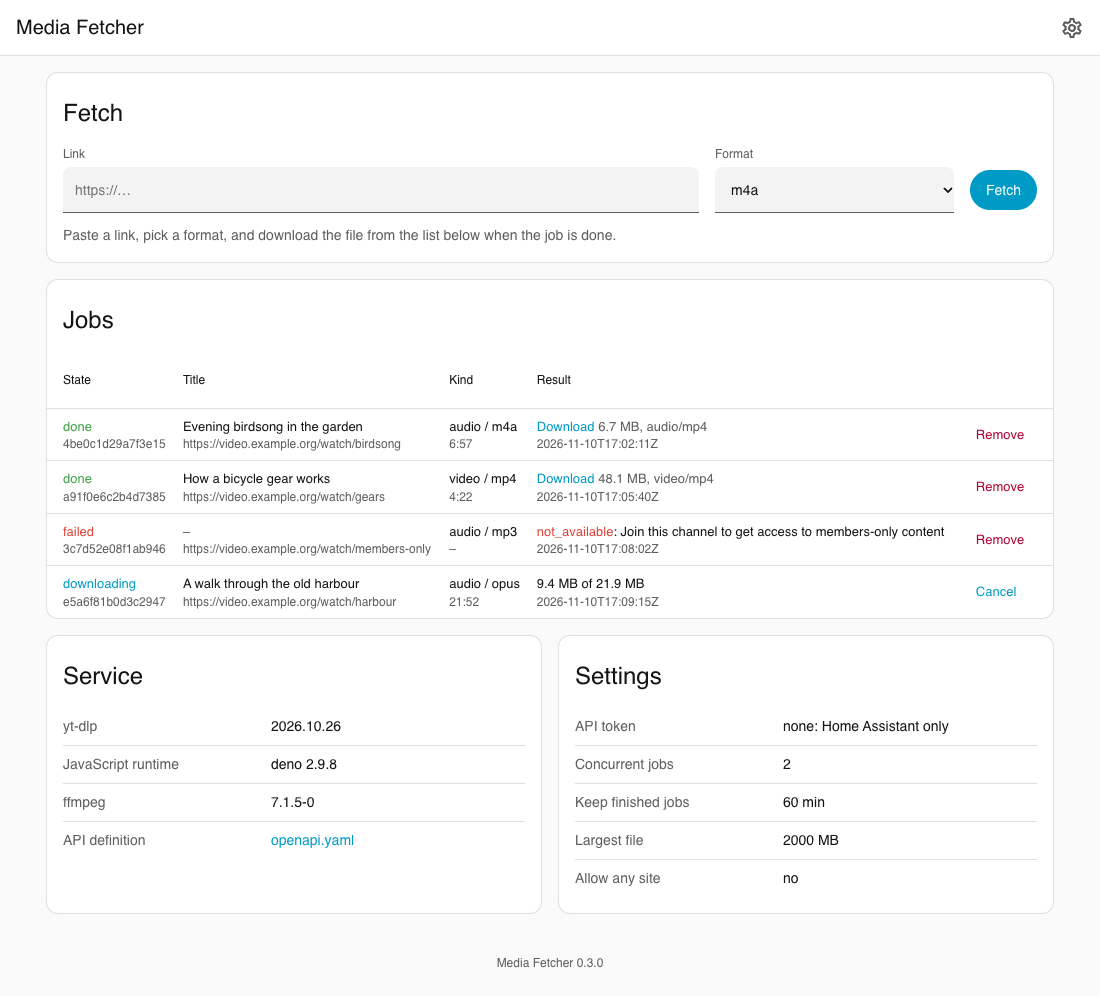
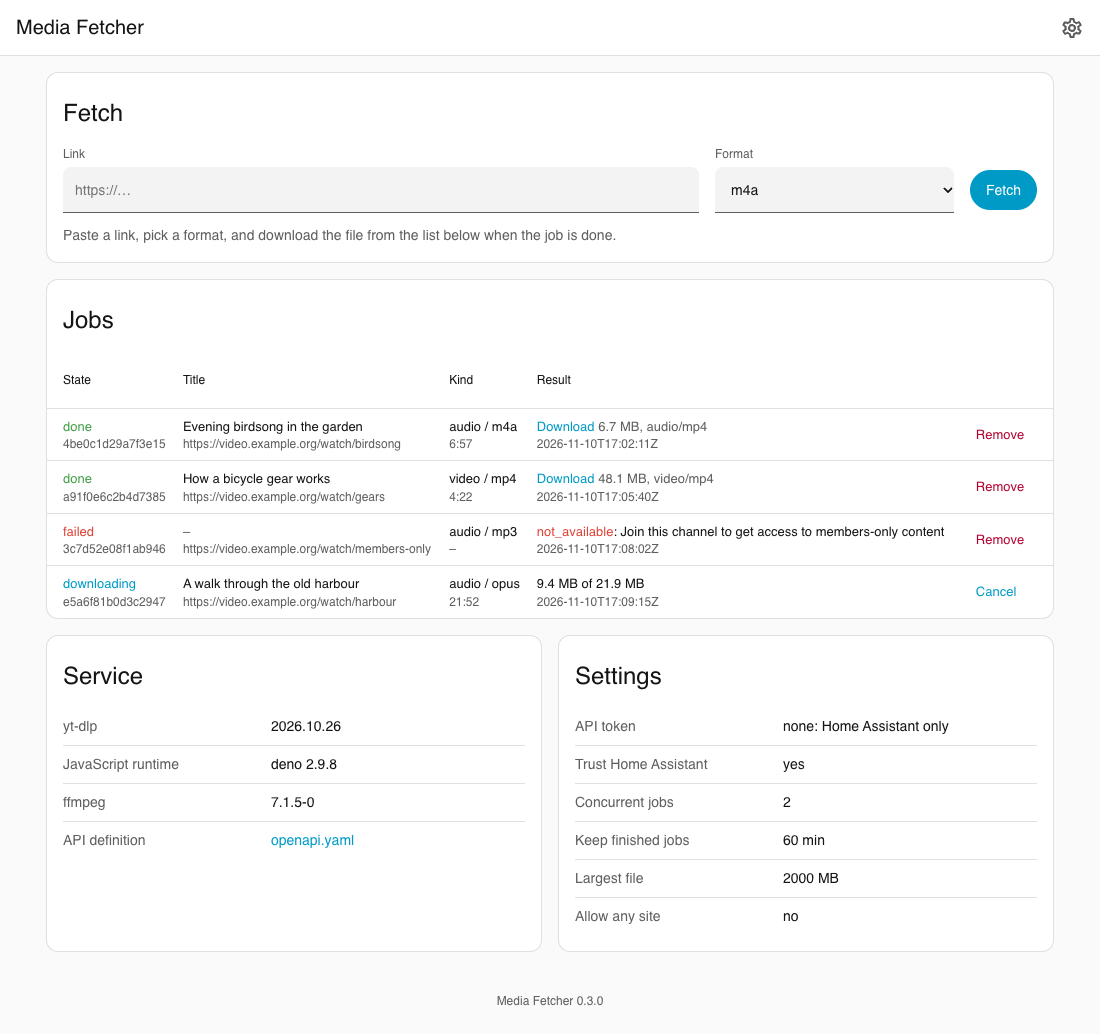
Add option trust_home_assistant
Off, Home Assistant Core needs the API token like every other client,
and without a token nobody gets into the API. Default on, as before.
Docs, translations, OpenAPI, page row and tests; the failed-download
test waits for the job's thread to remove its folder.

diff --git a/media_fetcher/rootfs/usr/lib/media_fetcher/api.py b/media_fetcher/rootfs/usr/lib/media_fetcher/api.py
@@ -2,8 +2,9 @@
 
 Every endpoint but health and the OpenAPI definition needs "Authorization:
 Bearer <token>", unless the request comes from Home Assistant Core, which the
-app knows by its address in the app network; without a token in the options
-nobody else gets in. Errors are JSON: {"error": {"code": "...", "message": "..."}}.
+app knows by its address in the app network, and the option
+trust_home_assistant is on; without a token in the options nobody else gets
+in. Errors are JSON: {"error": {"code": "...", "message": "..."}}.
 
 The page at / is HTML for Home Assistant's ingress and answers only the
 ingress proxy, so only administrators see it. It shows versions, settings
@@ -68,7 +69,7 @@ class Context:
     versions: dict                       # yt_dlp, js_runtime, ffmpeg
     version: str                         # the app's
     page_peers: frozenset[str]           # who may see the status page: the ingress proxy
-    core_peers: frozenset[str]           # who needs no token: Home Assistant Core
+    core_peers: frozenset[str]           # who needs no token: Home Assistant Core, or nobody
     slug: str | None = None              # for the link to the app's settings
     settings: dict = field(default_factory=dict)
     probes: int = 0                      # info requests running now; at most max_jobs
@@ -111,7 +112,8 @@ async def auth(request: web.Request, handler) -> web.StreamResponse:
         ctx: Context = request.app["ctx"]
         if request.remote not in ctx.core_peers and not bearer_ok(request, ctx.token):
             message = ("a valid bearer token is required" if ctx.token
-                       else "no token is set: only Home Assistant may call the API")
+                       else "no token is set: only Home Assistant may call the API" if ctx.core_peers
+                       else "no token is set and Home Assistant is not trusted: nobody may call the API")
             return error(401, "unauthorized", message, **{"WWW-Authenticate": "Bearer"})
     return await handler(request)
 
@@ -498,8 +500,10 @@ def render(ctx: Context, jobs: list[dict], base: str = "", nonce: str = "") -> s
     ])
     s = ctx.settings
     settings = _kv([
-        ("API token", "from the options, for clients other than Home Assistant" if s.get("token_set")
-         else "none: Home Assistant only"),
+        ("API token", ("from the options, for clients other than Home Assistant" if s.get("trust_home_assistant", True)
+                       else "from the options, for every client") if s.get("token_set")
+         else "none: Home Assistant only" if s.get("trust_home_assistant", True) else "none: nobody gets in"),
+        ("Trust Home Assistant", "yes" if s.get("trust_home_assistant", True) else "no"),
         ("Concurrent jobs", esc(str(s.get("max_jobs", "–")))),
         ("Keep finished jobs", f"{esc(str(s.get('keep_minutes', '–')))} min"),
         ("Largest file", f"{esc(str(s.get('max_size_mb', '–')))} MB"),

diff --git a/media_fetcher/rootfs/usr/lib/media_fetcher/__main__.py b/media_fetcher/rootfs/usr/lib/media_fetcher/__main__.py
@@ -14,7 +14,7 @@ from pathlib import Path
 from aiohttp import web
 
 from . import config as cfg_module
-from .api import PORT, create_app
+from .api import CORE_PEER, PORT, create_app
 from .fetcher import MB, Fetcher, versions
 from .jobs import JobManager
 
@@ -41,17 +41,32 @@ async def expire_loop(manager: JobManager) -> None:
             LOGGER.exception("Expiring jobs failed")
 
 
+def trusted_peers(cfg: cfg_module.Config) -> frozenset[str]:
+    """The addresses that need no token: Home Assistant Core's, unless the
+    option trust_home_assistant is off."""
+    return frozenset({CORE_PEER}) if cfg.trust_home_assistant else frozenset()
+
+
+def access_line(cfg: cfg_module.Config) -> str:
+    """Who gets into the API, for the log at the start."""
+    if cfg.trust_home_assistant:
+        return ("Home Assistant needs no token, other clients take the token from the options" if cfg.token
+                else "Home Assistant needs no token, other clients are not let in (no token set)")
+    return ("every client, Home Assistant included, takes the token from the options" if cfg.token
+            else "nobody is let in: Home Assistant is not trusted and no token is set")
+
+
 async def serve(cfg: cfg_module.Config, manager: JobManager, found: dict, version: str) -> None:
     host = hostname()
     app = create_app(manager, cfg.token, found, version, slug=host.replace("-", "_"),
-                     settings={"max_jobs": cfg.max_jobs, "keep_minutes": cfg.keep_minutes,
+                     core_peers=trusted_peers(cfg),
+                     settings={"trust_home_assistant": cfg.trust_home_assistant, "max_jobs": cfg.max_jobs, "keep_minutes": cfg.keep_minutes,
                                "max_size_mb": cfg.max_size_mb, "allow_any_site": cfg.allow_any_site,
                                "token_set": bool(cfg.token)})
     runner = web.AppRunner(app, access_log=None)
     await runner.setup()
     await web.TCPSite(runner, "0.0.0.0", PORT).start()
-    LOGGER.info("API on port %d: Home Assistant needs no token, other clients %s", PORT,
-                "take the token from the options" if cfg.token else "are not let in (no token set)")
+    LOGGER.info("API on port %d: %s", PORT, access_line(cfg))
     stop = asyncio.Event()
     loop = asyncio.get_running_loop()
     for sig in (signal.SIGTERM, signal.SIGINT):

diff --git a/tests/test_api.py b/tests/test_api.py
@@ -61,6 +61,30 @@ async def test_without_a_token_only_home_assistant_gets_in(manager, aiohttp_clie
     assert "Home Assistant only" in await page.text()
 
 
+@pytest.mark.parametrize("headers", [{}, {"Authorization": "Bearer wrong"}])
+async def test_an_untrusted_home_assistant_needs_the_token(manager, aiohttp_client, headers):
+    """trust_home_assistant off: no address passes without the token."""
+    untrusted = await aiohttp_client(create_app(manager, TOKEN, {}, "0.3.0", core_peers=frozenset(),
+                                                page_peers=frozenset({"127.0.0.1"}),
+                                                settings={"token_set": True, "trust_home_assistant": False}))
+    resp = await untrusted.get("/api/v1/jobs", headers=headers)
+    assert resp.status == 401 and (await resp.json())["error"]["message"] == "a valid bearer token is required"
+    assert (await untrusted.get("/api/v1/jobs", headers=bearer())).status == 200
+    text = await (await untrusted.get("/")).text()
+    assert "for every client" in text and "Trust Home Assistant" in text
+
+
+async def test_untrusted_and_without_a_token_nobody_gets_in(manager, aiohttp_client):
+    closed = await aiohttp_client(create_app(manager, "", {}, "0.3.0", core_peers=frozenset(),
+                                             page_peers=frozenset({"127.0.0.1"}),
+                                             settings={"token_set": False, "trust_home_assistant": False}))
+    for headers in ({}, bearer()):
+        resp = await closed.get("/api/v1/jobs", headers=headers)
+        assert resp.status == 401 and "nobody" in (await resp.json())["error"]["message"]
+    assert (await closed.get("/api/v1/health")).status == 200
+    assert "none: nobody gets in" in await (await closed.get("/")).text()
+
+
 async def test_unknown_routes_are_json(client):
     resp = await client.get("/api/v1/nothing", headers=bearer())
     assert resp.status == 404 and (await resp.json())["error"]["code"] == "not_found"

diff --git a/tests/test_config.py b/tests/test_config.py
@@ -17,7 +17,7 @@ def test_defaults_without_a_token(tmp_path):
     cfg = load(write(tmp_path))
     assert (cfg.max_jobs, cfg.keep_minutes, cfg.allow_any_site, cfg.log_level) == (2, 60, False, "INFO")
     assert cfg.max_size_mb == 2000
-    assert cfg.token == ""
+    assert cfg.token == "" and cfg.trust_home_assistant is True
     assert load(write(tmp_path, token="  ")).token == ""
 
 
@@ -25,6 +25,11 @@ def test_a_set_token_is_kept(tmp_path):
     cfg = load(write(tmp_path, token=" my-token ", max_jobs=4, keep_minutes=5, allow_any_site=True, log_level="debug"))
     assert cfg.token == "my-token"
     assert (cfg.max_jobs, cfg.keep_minutes, cfg.allow_any_site, cfg.log_level) == (4, 5, True, "DEBUG")
+
+
+def test_home_assistant_can_lose_its_trust(tmp_path):
+    assert load(write(tmp_path, trust_home_assistant=False)).trust_home_assistant is False
+    assert load(write(tmp_path, trust_home_assistant=True)).trust_home_assistant is True
 
 
 @pytest.mark.parametrize("bad", [{"max_jobs": 0}, {"max_jobs": "2"}, {"max_jobs": True}, {"keep_minutes": 0},
@@ -50,4 +55,4 @@ def test_the_config_defaults_match_the_code(tmp_path):
     cfg = load(write(tmp_path, **config["options"]))
     assert cfg == load(write(tmp_path))
     assert set(config["options"]) == set(config["schema"]) == {
-        "token", "max_jobs", "keep_minutes", "max_size_mb", "allow_any_site", "log_level"}
+        "token", "trust_home_assistant", "max_jobs", "keep_minutes", "max_size_mb", "allow_any_site", "log_level"}

diff --git a/tests/test_main.py b/tests/test_main.py
@@ -29,3 +29,22 @@ def test_the_process_ends_after_the_grace_time_anyway(caplog):
     with caplog.at_level(logging.INFO, "media_fetcher"):
         main.finish(Threads(None), grace=0.2, exit_now=codes.append)
     assert codes == [0] and "still running" in caplog.text
+
+
+def options(**changes):
+    from media_fetcher.config import Config
+    base = dict(token="", trust_home_assistant=True, max_jobs=2, keep_minutes=60, max_size_mb=2000,
+                allow_any_site=False, log_level="INFO")
+    return Config(**(base | changes))
+
+
+def test_only_a_trusted_home_assistant_passes_without_the_token():
+    assert main.trusted_peers(options()) == frozenset({"172.30.32.1"})
+    assert main.trusted_peers(options(trust_home_assistant=False)) == frozenset()
+
+
+def test_the_log_says_who_gets_in():
+    assert "not let in" in main.access_line(options())
+    assert "other clients take the token" in main.access_line(options(token="t"))
+    assert "Home Assistant included" in main.access_line(options(token="t", trust_home_assistant=False))
+    assert "nobody is let in" in main.access_line(options(trust_home_assistant=False))

diff --git a/media_fetcher/rootfs/usr/lib/media_fetcher/config.py b/media_fetcher/rootfs/usr/lib/media_fetcher/config.py
@@ -16,7 +16,8 @@ class ConfigError(Exception):
 
 @dataclass(frozen=True)
 class Config:
-    token: str               # the API token for clients other than Home Assistant Core; "" when none
+    token: str               # the API token; "" when none
+    trust_home_assistant: bool  # Home Assistant Core gets in without the token
     max_jobs: int            # jobs that run at the same time
     keep_minutes: int        # minutes a finished job and its file stay
     max_size_mb: int         # megabytes (10^6 bytes) a job's file may have
@@ -43,6 +44,7 @@ def load(path: Path = OPTIONS) -> Config:
         raise ConfigError("log_level must be debug, info, warning or error")
     return Config(
         token=str(opts.get("token") or "").strip(),
+        trust_home_assistant=bool(opts.get("trust_home_assistant", True)),
         max_jobs=_int(opts, "max_jobs", 2, 1, 8),
         keep_minutes=_int(opts, "keep_minutes", 60, 1, 1440),
         max_size_mb=_int(opts, "max_size_mb", 2000, 1, 100000),

diff --git a/tests/test_jobs.py b/tests/test_jobs.py
@@ -1,6 +1,7 @@
 """The job manager: threads, states, files, cancelling, cleanup."""
 
 import threading
+import time
 
 import pytest
 from conftest import Scenario, resolve, wait_for
@@ -39,6 +40,10 @@ def test_a_failed_download_keeps_no_files(tmp_path, clock):
     failed = wait_for(manager, job.id, "failed")
     assert failed["error"] == {"code": "download_failed",
                                "message": "unable to download video data: HTTP Error 403: Forbidden"}
+    # The state turns "failed" just before the job's thread removes its folder
+    deadline = time.monotonic() + 2
+    while (tmp_path / "jobs" / job.id).exists() and time.monotonic() < deadline:
+        time.sleep(0.01)
     assert not (tmp_path / "jobs" / job.id).exists()
     manager.shutdown()
 

diff --git a/scripts/screenshots.py b/scripts/screenshots.py
@@ -24,7 +24,8 @@ from media_fetcher import api  # noqa: E402
 from playwright.sync_api import sync_playwright  # noqa: E402
 
 VERSIONS = {"yt_dlp": "2026.10.26", "js_runtime": "deno 2.9.8", "ffmpeg": "7.1.5-0"}
-SETTINGS = {"max_jobs": 2, "keep_minutes": 60, "max_size_mb": 2000, "allow_any_site": False, "token_set": False}
+SETTINGS = {"max_jobs": 2, "keep_minutes": 60, "max_size_mb": 2000, "allow_any_site": False, "token_set": False,
+            "trust_home_assistant": True}
 
 
 def version() -> str:

diff --git a/media_fetcher/DOCS.md b/media_fetcher/DOCS.md
@@ -16,7 +16,8 @@ Under **Settings → Apps → Media Fetcher → Configuration**.
 
 | Option | Default | Meaning |
 |---|---|---|
-| `token` | | API token for clients other than Home Assistant Core. Empty: there is none, and the API answers Home Assistant alone. Set: other apps and, with the port mapped, programs in your network send it |
+| `token` | | API token. Empty: there is none, and the API answers Home Assistant alone (or nobody, with `trust_home_assistant` off). Set: other apps and, with the port mapped, programs in your network send it |
+| `trust_home_assistant` | `true` | Requests from Home Assistant Core's address in the app network need no token. Off: Core sends the token like every other client |
 | `max_jobs` | `2` | Jobs that run at the same time, and links `info` looks at at the same time; further requests get `429 busy` until one finishes |
 | `keep_minutes` | `60` | Minutes a finished job and its file stay available; then they are deleted. Everything is deleted when the app starts |
 | `max_size_mb` | `2000` | Megabytes (millions of bytes) a fetched file may have. A larger one fails with `too_large`: before the download when the site tells the size, during it when it grows past the limit, after a conversion that would make it larger |
@@ -40,8 +41,8 @@ Base: `http://<host>:8099/api/v1`, JSON in and out. The host is the app's name i
 
 ### Who gets in
 
-- **Home Assistant Core needs no token.** Core runs in the host's network, so its requests enter the app network from the network's address on the host, 172.30.32.1. Requests from that address pass without a token. The app looks at the connection's own address only, never at a forwarded header. The same address belongs to everything else that runs in the host's network: apps with `host_network`, the operating system itself and, with the port mapped, connections Docker's proxy hands on from the host. Know which apps run in the host's network.
-- **Everyone else needs the token.** Other apps, and clients in your network when the port is mapped, send `Authorization: Bearer <token>` on every request but `health` and `openapi.yaml`, with the token from the `token` option. With the option empty (the default) there is no token, and the API answers Home Assistant Core alone. A set token stays the same across restarts; treat it like a password, it never appears in the log.
+- **Home Assistant Core needs no token** while `trust_home_assistant` is on (the default). Core runs in the host's network, so its requests enter the app network from the network's address on the host, 172.30.32.1. Requests from that address pass without a token. The app looks at the connection's own address only, never at a forwarded header. The same address belongs to everything else that runs in the host's network: apps with `host_network`, the operating system itself and, with the port mapped, connections Docker's proxy hands on from the host. Know which apps run in the host's network; if one of them should not use the API, turn `trust_home_assistant` off, set a token and give it to Core as well (see the examples).
+- **Everyone else needs the token.** Other apps, and clients in your network when the port is mapped, send `Authorization: Bearer <token>` on every request but `health` and `openapi.yaml`, with the token from the `token` option. With the option empty (the default) there is no token, and the API answers Home Assistant Core alone, or nobody with `trust_home_assistant` off. A set token stays the same across restarts; treat it like a password, it never appears in the log.
 - **Outside the app network.** The API is not reachable from your network unless you map the port under **Network** on the app's page. Do that only with a token set and a network you trust: the token crosses it in clear text, there is no TLS and no rate limit. Never expose the port to the internet.
 
 Whoever gets in can make the app fetch from the internet and read the files of every job.
@@ -60,7 +61,7 @@ Whoever gets in can make the app fetch from the internet and read the files of e
 {"error": {"code": "not_available", "message": "Video unavailable. This video is not available"}}
 ```
 
-yt-dlp's message is shortened to its first line, at most 200 characters, without the `ERROR: [site] id:` prefix. Every endpoint but `health` and `openapi.yaml` answers `401 unauthorized` to a request that neither comes from Home Assistant Core nor carries the token.
+yt-dlp's message is shortened to its first line, at most 200 characters, without the `ERROR: [site] id:` prefix. Every endpoint but `health` and `openapi.yaml` answers `401 unauthorized` to a request that neither comes from a trusted Home Assistant Core nor carries the token.
 
 ### `GET /health`
 
@@ -241,12 +242,21 @@ mode: queued
 
 The script waits at most two minutes, which suits audio of ordinary length; the job keeps running in the app regardless and stays on its page.
 
+With `trust_home_assistant` off, Core sends the token as well: give both rest commands a header, with the token in `secrets.yaml`. The `downloader` action cannot send a header, so it can then not fetch the file; a `rest_command` reaches the job's state, and an integration of your own can download the file with the token.
+
+```yaml
+# configuration.yaml, for each rest command
+    headers:
+      Authorization: !secret media_fetcher_bearer   # secrets.yaml: media_fetcher_bearer: "Bearer <token>"
+```
+
 ## Troubleshooting
 
 - **A site fails with `not_available` or `extract_failed`:** set `log_level` to `debug` and fetch again; the log then holds every message of yt-dlp. Sites change often, and yt-dlp follows; check for an update of the app first.
 - **The log warns about no JavaScript runtime or no ffmpeg:** the image is incomplete; rebuild it with **Rebuild** on the app's page.
 - **`507 insufficient_storage` or `too_large`:** free space on Home Assistant's data partition (old backups, the recorder database) or raise `max_size_mb`; finished files leave after `keep_minutes`, or at once with `DELETE`.
 - **`401 unauthorized` from another app:** set a `token` and send it as `Authorization: Bearer <token>`.
+- **`401 unauthorized` from Home Assistant:** `trust_home_assistant` is off; send the token, or turn the option back on.
 - **`429 busy`:** as many jobs or `info` requests as `max_jobs` are running; try again later or raise `max_jobs`.
 
 ## Known limitations

diff --git a/README.md b/README.md
@@ -21,7 +21,7 @@ The page looks like Home Assistant's own settings and follows the theme in use. 
 
 ```mermaid
 flowchart LR
-    core["Home Assistant Core<br/>integrations, automations"] -- "HTTP API, no token" --> api
+    core["Home Assistant Core<br/>integrations, automations"] -- "HTTP API, no token<br/>while trusted" --> api
     clients["Other apps, programs<br/>in your network"] -- "HTTP API with token" --> api
     admin(["Administrator"]) -- "page, through ingress" --> page
     subgraph app["Media Fetcher"]
@@ -54,7 +54,7 @@ A client asks what a link holds (`info`) or starts a job; yt-dlp fetches the med
 
 ## Development
 
-The service is a Python package in [`media_fetcher/rootfs/usr/lib/media_fetcher`](media_fetcher/rootfs/usr/lib/media_fetcher): `api.py` (aiohttp, the page), `jobs.py` (threads, files, cleanup), `fetcher.py` (yt-dlp options, limits and error mapping). The tests replace `yt_dlp.YoutubeDL` with a fake and need no network. Set up both Pythons the CI tests with (3.13 is the image's) and run every check:
+The service is a Python package in [`media_fetcher/rootfs/usr/lib/media_fetcher`](media_fetcher/rootfs/usr/lib/media_fetcher): `api.py` (aiohttp, the page), `jobs.py` (threads, files, cleanup), `fetcher.py` (yt-dlp options, limits and error mapping). The page's look comes from the stylesheet shared by these apps, [`ha.css`](media_fetcher/rootfs/usr/local/share/ha-app/ha.css), which stays identical in every app. The tests replace `yt_dlp.YoutubeDL` with a fake and need no network. Set up both Pythons the CI tests with (3.13 is the image's) and run every check:
 
 ```bash
 uv venv -p 3.13 .venv && uv pip install -p .venv --require-hashes -r media_fetcher/requirements.txt && uv pip install -p .venv -r requirements_test.txt
@@ -80,11 +80,11 @@ A local image for a real run, with a fixed token:
 
 ```bash
 docker build --build-arg BUILD_VERSION=dev -t media-fetcher:dev media_fetcher
-mkdir -p /tmp/mf && echo '{"token": "dev-token", "max_jobs": 2, "keep_minutes": 60, "max_size_mb": 2000, "allow_any_site": false, "log_level": "debug"}' > /tmp/mf/options.json
+mkdir -p /tmp/mf && echo '{"token": "dev-token", "trust_home_assistant": true, "max_jobs": 2, "keep_minutes": 60, "max_size_mb": 2000, "allow_any_site": false, "log_level": "debug"}' > /tmp/mf/options.json
 docker run --rm -p 8099:8099 -v /tmp/mf:/data media-fetcher:dev
 ```
 
-Releases: work happens on `dev`; when CI is green there, `dev` goes to `main`, and a green CI run on `main` tags the version from `config.yaml` and publishes a release with its changelog section.
+Releases: work happens on `dev`, raise `version` in `media_fetcher/config.yaml` and add its section to the changelog; when CI is green there, `dev` goes to `main`, and a green CI run on `main` tags the version from `config.yaml` and publishes a release with its changelog section.
 
 ## Support
 

diff --git a/media_fetcher/CHANGELOG.md b/media_fetcher/CHANGELOG.md
@@ -6,6 +6,7 @@ All notable changes to this app are documented here. The format follows [Keep a 
 
 ### Added
 
+- Option `trust_home_assistant` (default on): off, Home Assistant Core needs the token like every other client, and nobody gets into the API without a token
 - Option `max_size_mb` (default 2000): a job fails with `too_large` when the site announces a larger file, the download grows past it, or a conversion would make the file larger (ffmpeg stops writing at the limit)
 - No job starts, and running ones stop, while less than 1 GiB is free on Home Assistant's data partition: `507 insufficient_storage` when starting, `insufficient_storage` as a job's error
 - The web page shows the app's version at the bottom and follows Home Assistant's look with the stylesheet all apps of this author share; on a phone each job is one block
